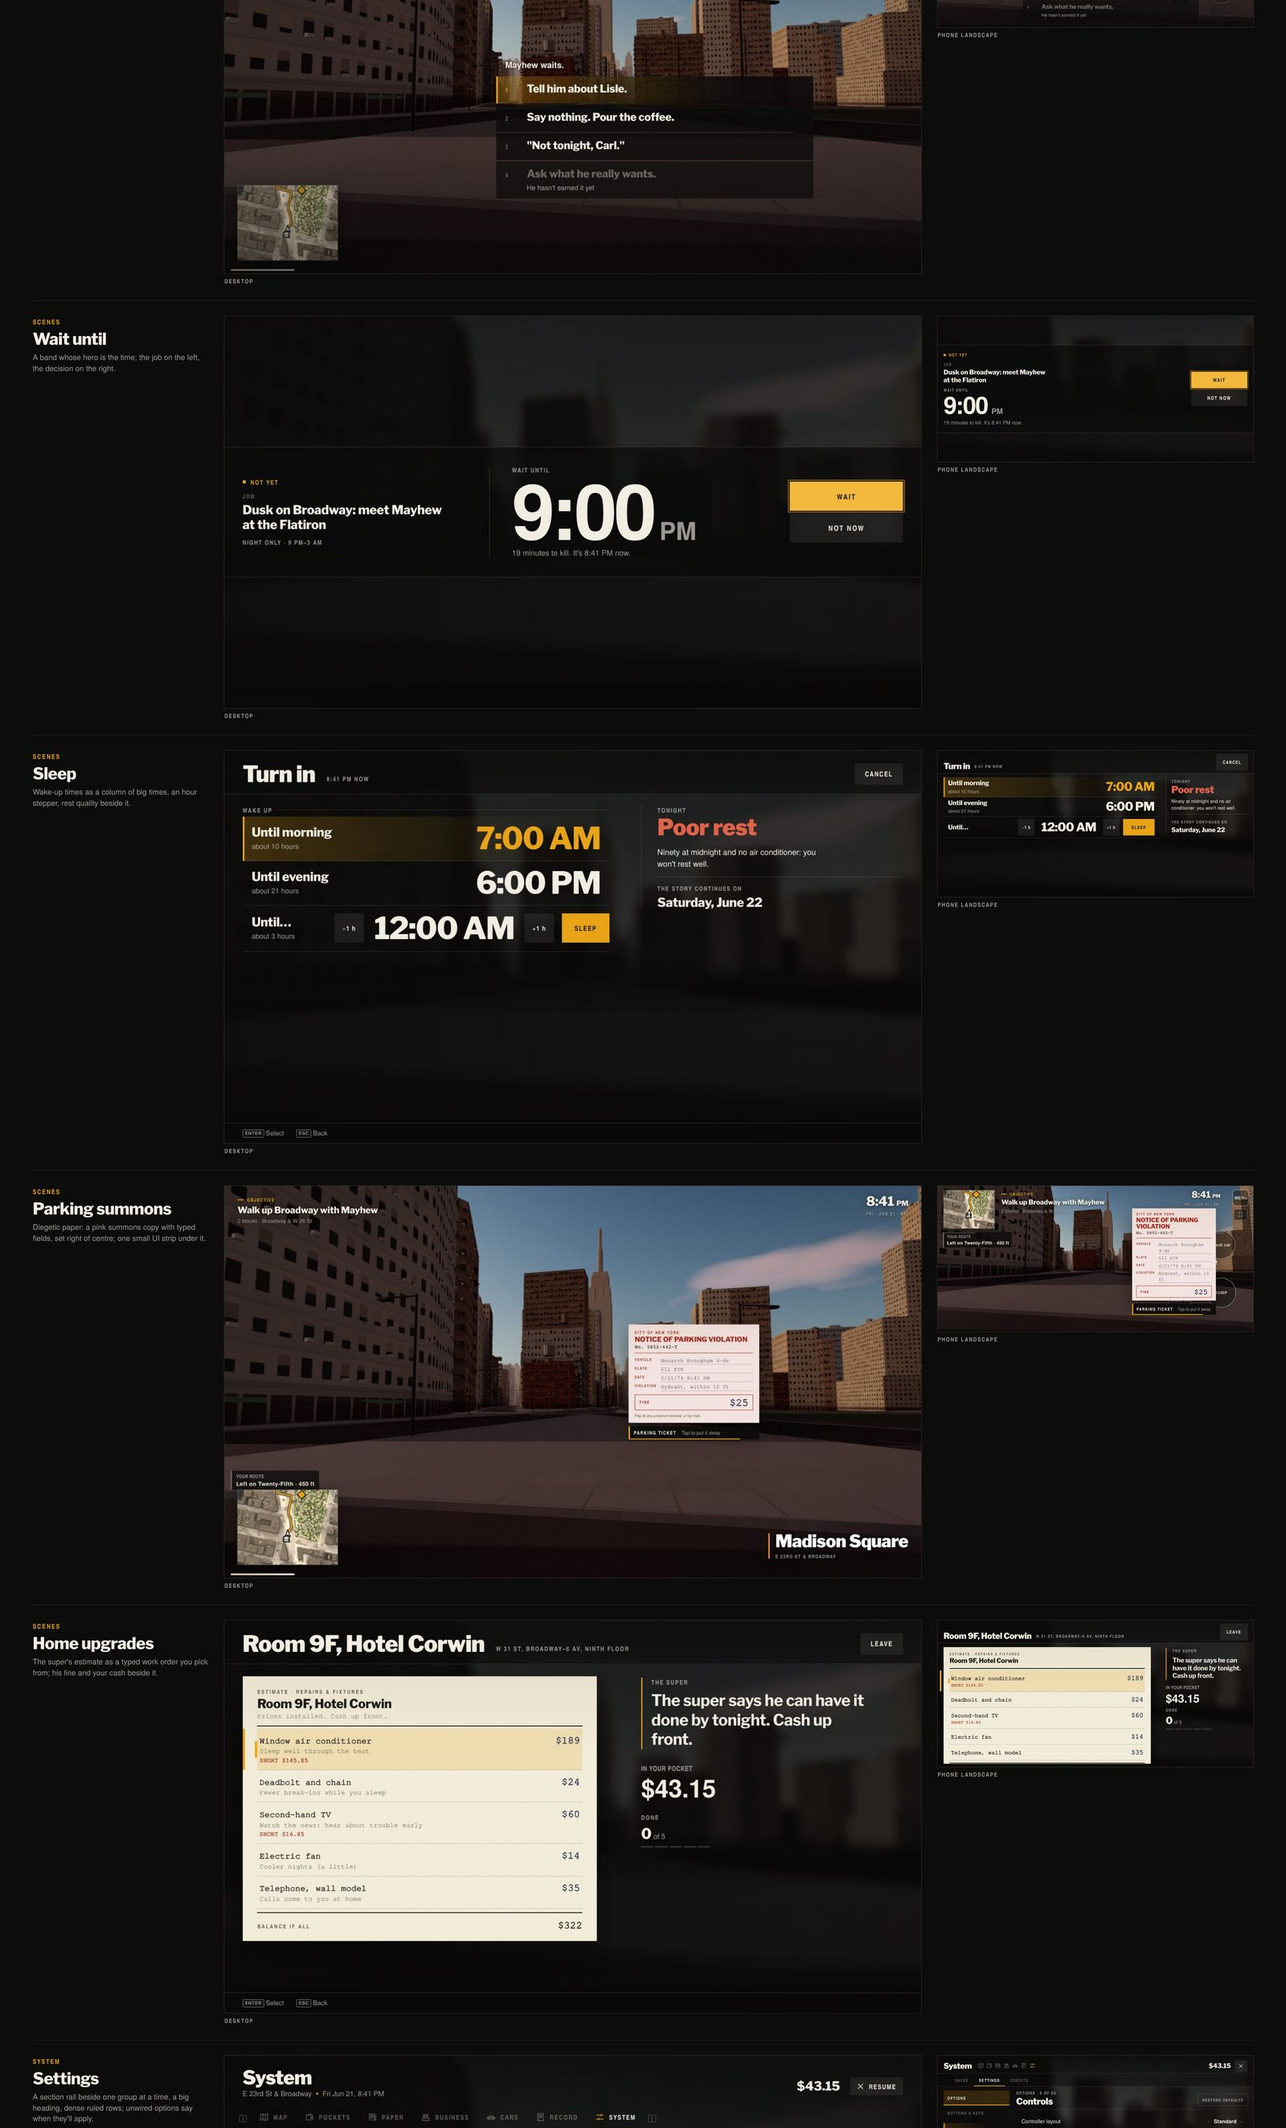
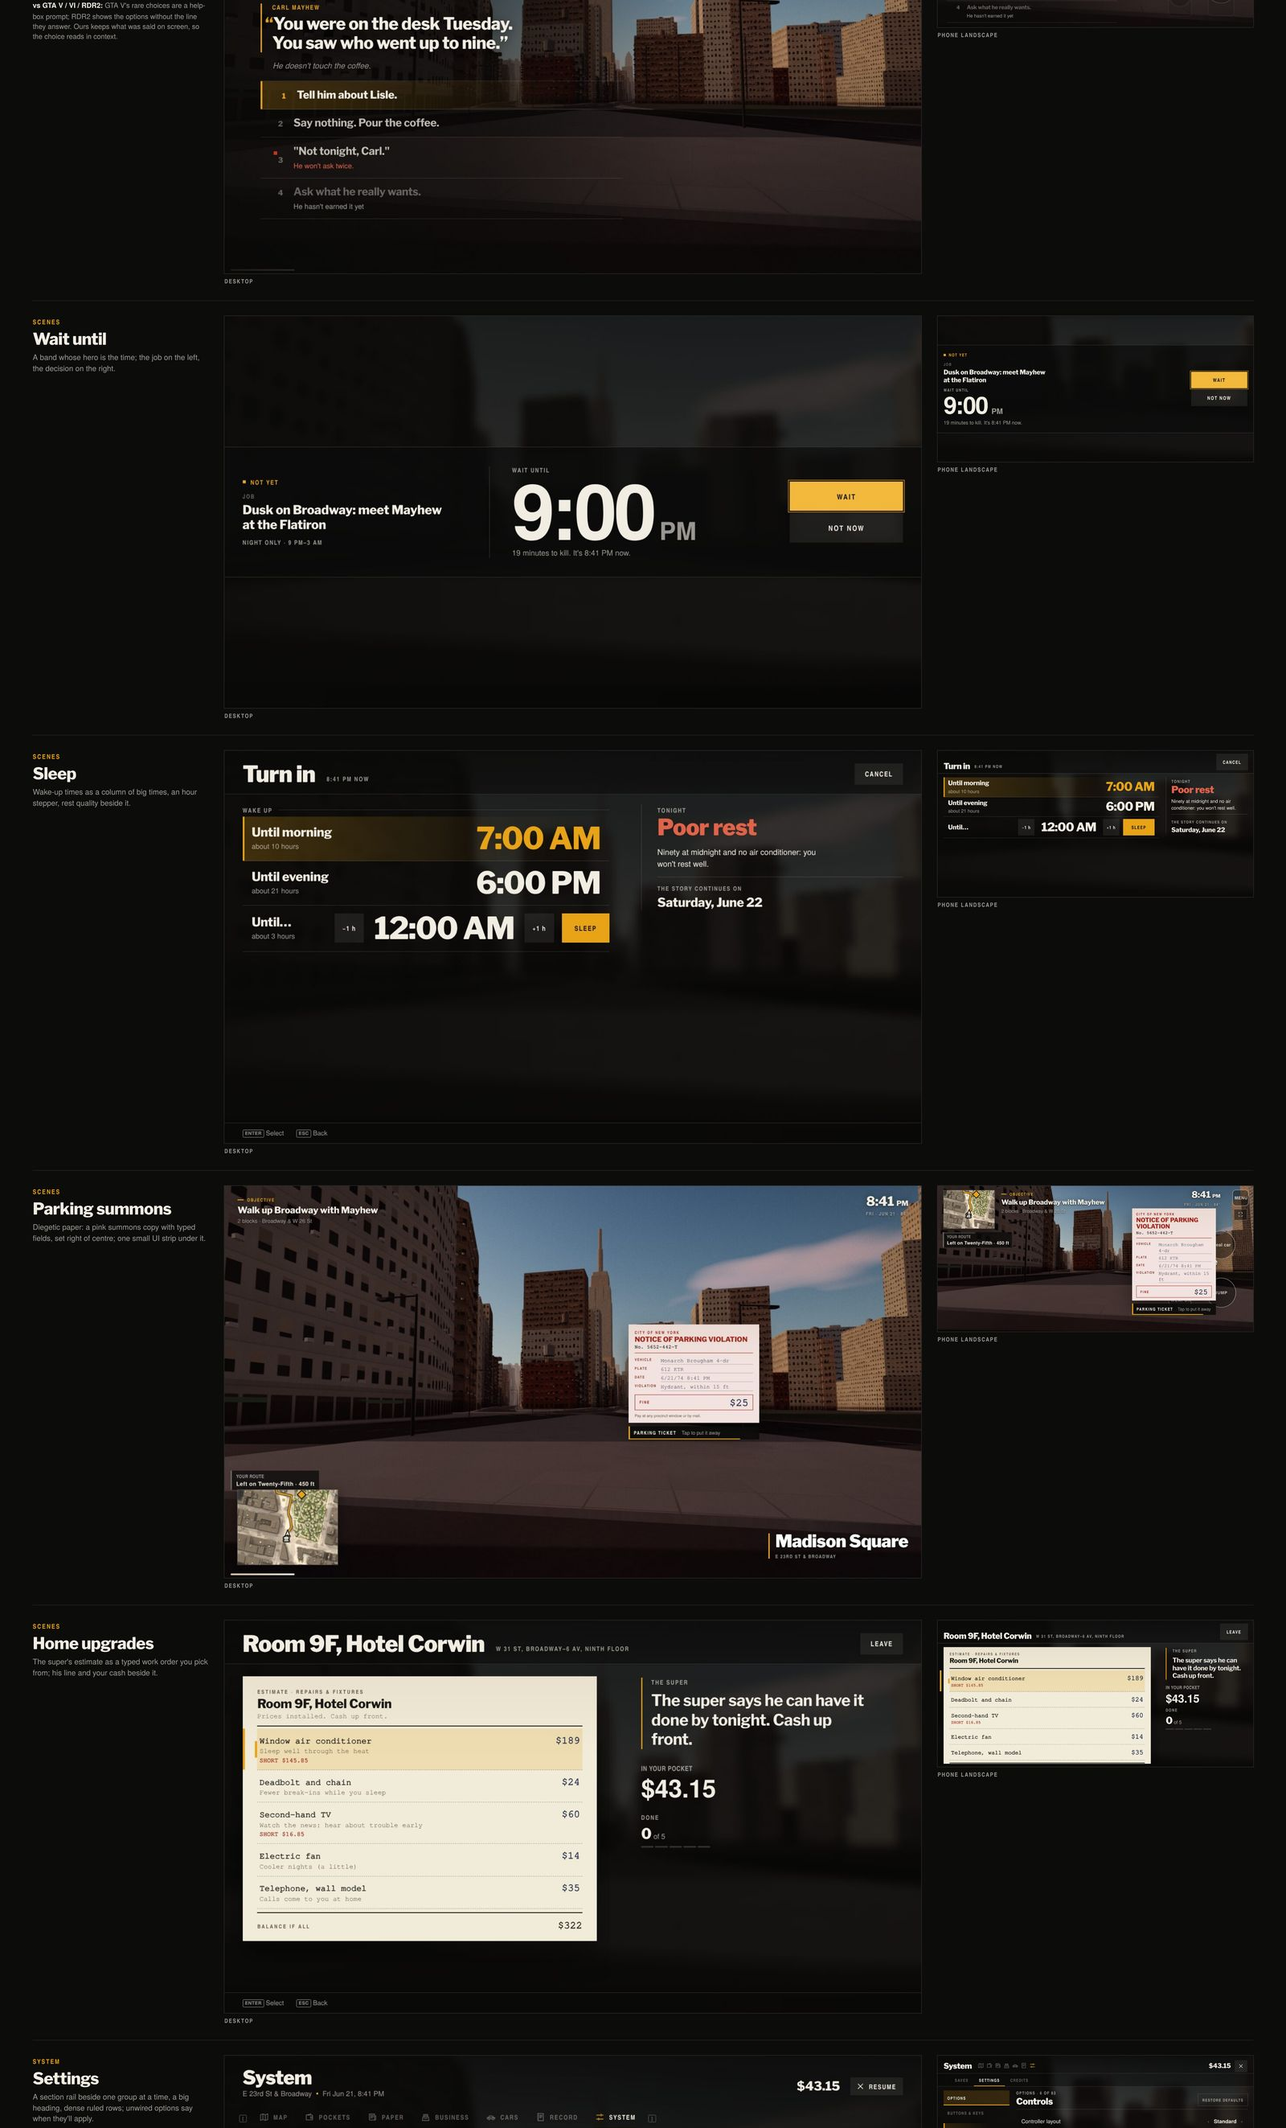
UI: dialogue choices redesigned around the line just spoken; weighty choices take a second press
The choices event gains speaker, line and seconds; DialogueChoice gains confirm (content's
confirm field). Options are type on a left scrim, the minimap steps out while talking.

Claude-Session: https://claude.ai/code/session_01H4ZSJ9Htu5DPCDMJHKesiQ

Changed region(s): [[0.0312, 0.0, 0.6562, 0.124]]

diff --git a/src/ui/a-screens.css b/src/ui/a-screens.css
@@ -395,20 +395,39 @@ body .u-weapons .ws-opt.is-focus .lb { background: var(--focus-surf); box-shadow
 body.touch .u-weapons .ws-opt { width: 0; min-height: 0; } body.touch .u-weapons .ws-opt .lb { min-height: 44px; }
 
 /* ================================================================== DIALOGUE CHOICES: a short list, left of centre, over the live scene */
-.u-choices { justify-content: flex-end; align-items: stretch; padding: 0; background: linear-gradient(180deg, transparent 55%, rgba(10,10,9,.55)); }
-.u-choices .ch-wrap { align-self: flex-start; margin: 0 0 calc(132px + var(--safe-b)) calc(30vw + var(--safe-l)); width: min(560px, 60vw); }
-.u-choices .ch-prompt { margin: 0 0 10px; padding-left: 16px; font: 700 15px var(--f-ui); color: var(--cream); text-shadow: 0 1px 3px #000; }
-.u-choices .ch-list { display: grid; grid-template-columns: 1fr; gap: 2px; width: auto; }
-.u-choices .ch-btn { all: unset; box-sizing: border-box; cursor: pointer; display: grid; grid-template-columns: 28px 1fr; align-items: baseline; gap: 10px; min-height: 48px; padding: 11px 18px 12px 16px;
-  background: var(--panel); border: 0; color: var(--cream); }
-.u-choices .ch-btn .k { width: auto; height: auto; border: 0; font: 700 11px var(--f-cond); letter-spacing: .12em; color: var(--faint); display: block; }
-.u-choices .ch-btn .t { font: 800 19px/1.2 var(--f-voice); letter-spacing: -.01em; }
-.u-choices .ch-btn small { display: block; margin-top: 3px; font: 400 12px var(--f-ui); color: var(--dim); letter-spacing: 0; }
-.u-choices .ch-btn:hover, body .u-choices .ch-btn.is-focus { background: linear-gradient(90deg, rgba(232,163,23,.3), rgba(12,12,11,.9) 70%); box-shadow: inset 3px 0 0 var(--taxi); border: 0; }
-.u-choices .ch-btn.is-focus .k { color: var(--taxi); border: 0; }
-.u-choices .ch-btn[aria-disabled="true"] { opacity: 1; background: var(--band); } .u-choices .ch-btn[aria-disabled="true"] .t { color: var(--faint); }
-.u-choices .ch-fuse { width: auto; height: 2px; margin-top: 6px; background: var(--hair); } .u-choices .ch-fuse i { background: var(--taxi); }
-@media (max-height: 480px) { .u-choices .ch-wrap { margin: 0 0 calc(16px + var(--safe-b)) calc(27vw + var(--safe-l)); width: min(470px, 56vw); } .u-choices .ch-btn { min-height: 44px; padding: 8px 14px 9px 12px; } .u-choices .ch-btn .t { font-size: 16px; } }
+/* Dialogue choices (DESIGN_A): the line just spoken is the hero; options are type on a left scrim, not plates */
+.u-choices { justify-content: flex-end; align-items: stretch; padding: 0; background: linear-gradient(90deg, rgba(10,10,9,.82) 0, rgba(10,10,9,.6) 38%, transparent 68%), linear-gradient(180deg, transparent 45%, rgba(10,10,9,.5)); }
+.u-choices .ch-wrap { align-self: flex-start; margin: 0 0 calc(96px + var(--safe-b)) calc(64px + var(--safe-l)); width: min(640px, 52vw); }
+.u-choices .ch-said { margin: 0 0 6px; padding: 0 0 0 18px; border-left: 3px solid var(--taxi); }
+.u-choices .ch-said .a-label { display: block; color: var(--taxi); margin-bottom: 6px; }
+.u-choices .ch-said p { margin: 0; font: 800 30px/1.12 var(--f-voice); letter-spacing: -.02em; color: var(--cream); text-wrap: balance; text-shadow: 0 2px 12px rgba(0,0,0,.5); }
+.u-choices .ch-said p::before { content: '\201C'; color: var(--taxi); margin-left: -.42em; }
+.u-choices .ch-said p::after { content: '\201D'; }
+.u-choices .ch-prompt { margin: 12px 0 18px 21px; font: italic 400 14px var(--f-ui); color: var(--dim); text-shadow: 0 1px 3px #000; }
+.u-choices .ch-said + .ch-list, .u-choices .ch-said ~ .ch-list { margin-top: 0; }
+.u-choices .ch-list { display: grid; grid-template-columns: 1fr; gap: 0; width: auto; border-top: 1px solid var(--hair); }
+.u-choices .ch-btn { all: unset; box-sizing: border-box; cursor: pointer; display: grid; grid-template-columns: 34px 1fr; align-items: baseline; gap: 6px; min-height: 48px; padding: 12px 18px 13px 18px; border-bottom: 1px solid var(--hair); background: none; transition: background .12s, padding .18s cubic-bezier(.2,.7,.1,1); }
+.u-choices .ch-btn .k { font: 800 13px var(--f-voice); color: var(--faint); font-variant-numeric: tabular-nums; }
+.u-choices .ch-btn .t { font: 700 19px/1.25 var(--f-voice); letter-spacing: -.01em; color: rgba(242,237,227,.78); }
+.u-choices .ch-btn small { display: block; margin-top: 4px; font: 400 12.5px var(--f-ui); color: var(--dim); letter-spacing: 0; }
+.u-choices .ch-btn:hover, body .u-choices .ch-btn.is-focus { background: linear-gradient(90deg, rgba(232,163,23,.22), rgba(232,163,23,0) 85%); box-shadow: inset 3px 0 0 var(--taxi); padding-left: 24px; }
+.u-choices .ch-btn:hover .t, body .u-choices .ch-btn.is-focus .t { color: var(--cream); font-weight: 800; }
+.u-choices .ch-btn.is-focus .k { color: var(--taxi); }
+/* weighty: a red tick before the number; armed (first press) shows the consequence in red and asks for the second */
+.u-choices .ch-btn .k { position: relative; }
+.u-choices .ch-btn.weighty .k::before { content: ""; position: absolute; left: -13px; top: 50%; width: 6px; height: 6px; margin-top: -3px; background: var(--red); }
+.u-choices .ch-btn .cf em { font-style: normal; color: #e0634a; }
+.u-choices .ch-btn .cf span { display: none; font: 700 10.5px var(--f-cond); letter-spacing: .14em; text-transform: uppercase; color: var(--cream); margin-left: 8px; }
+.u-choices .ch-btn.armed { background: linear-gradient(90deg, rgba(200,54,31,.32), rgba(200,54,31,0) 85%) !important; box-shadow: inset 3px 0 0 var(--red) !important; }
+.u-choices .ch-btn.armed .cf span { display: inline; }
+.u-choices .ch-btn[aria-disabled="true"] { cursor: default; } .u-choices .ch-btn[aria-disabled="true"] .t { color: var(--faint); font-weight: 700; }
+.u-choices .ch-fuse { width: auto; height: 2px; margin-top: 10px; background: var(--hair); } .u-choices .ch-fuse i { display: block; height: 100%; background: var(--taxi); }
+@media (max-height: 480px) {
+  .u-choices .ch-wrap { margin: 0 0 calc(12px + var(--safe-b)) calc(24px + var(--safe-l)); width: min(520px, 58vw); }
+  .u-choices .ch-said p { font-size: 20px; } .u-choices .ch-said .a-label { margin-bottom: 3px; }
+  .u-choices .ch-prompt { margin: 6px 0 8px 21px; font-size: 12px; }
+  .u-choices .ch-btn { min-height: 44px; padding: 8px 14px 9px 14px; } .u-choices .ch-btn .t { font-size: 15.5px; }
+}
 body.touch .u-choices { padding-bottom: 0; } body.touch .u-choices .ch-list { width: auto; }
 
 /* ================================================================== WAIT: a band across the held frame; the hour is the hero */
@@ -645,3 +664,7 @@ body .cr-a .cr-roll a.is-focus { background: none; box-shadow: inset 0 -2px 0 va
 /* real car renders (vehicles' renderThumbnail) replace the drawn profile in place, same footprint */
 .car-art { display: block; }
 .car-art .car-render { display: block; width: 100%; height: auto; aspect-ratio: 640 / 280; object-fit: contain; filter: drop-shadow(0 10px 14px rgba(0,0,0,.45)); }
+/* while choosing, the conversation owns the left side: minimap and route step out; numbers are bare, not keycaps */
+body:has(.u-choices.modal-open) .t74-minimap, body:has(.u-choices.modal-open) .u-hud .u-turn { opacity: 0 !important; transition: opacity .15s; pointer-events: none; }
+.u-choices .ch-btn .k { border: 0 !important; width: auto !important; height: auto !important; box-shadow: none !important; background: none !important; padding: 0 !important; }
+@media (max-height: 480px) { .u-choices .ch-said p { font-size: 18px; font-weight: 800; } .u-choices .ch-btn .t { font-size: 14.5px; } .u-choices .ch-wrap { width: min(480px, 54vw); } }

diff --git a/src/ui/screens/Overlays.ts b/src/ui/screens/Overlays.ts
@@ -130,28 +130,50 @@ export class WeaponSelect extends Modal {
 export class Choices extends Modal {
   private resolve: ((id: string) => void) | null = null;
   private timer = 0; private total = 0; private defaultId = '';
+  private armed = ''; // a weighty choice waiting for its second press
   constructor(input: Input) { super(input, 'u-choices'); }
-  ask(choices: DialogueChoice[], resolve: (id: string) => void, opts: { prompt?: string; seconds?: number; defaultId?: string } = {}) {
+  /**
+   * DESIGN_A dialogue choices: the line just spoken is the hero (speaker in amber caps, the line in Franklin), the
+   * options sit under it as type on a scrim, numbered. Weighty choices (content `confirm`) carry a red mark and take a
+   * second press, showing their consequence line in between.
+   */
+  ask(choices: DialogueChoice[], resolve: (id: string) => void, opts: { prompt?: string; speaker?: string; line?: string; seconds?: number; defaultId?: string } = {}) {
     if (choices.length > 4) console.warn('More than four choices (narrative rule): truncating');
     const cs = choices.slice(0, 4);
-    this.resolve = resolve; this.total = this.timer = opts.seconds && !settings.get('skipTimers') ? Math.max(6, opts.seconds) : 0; this.defaultId = opts.defaultId ?? cs[cs.length - 1].id;
+    this.resolve = resolve; this.armed = '';
+    this.total = this.timer = opts.seconds && !settings.get('skipTimers') ? Math.max(6, opts.seconds) : 0;
+    this.defaultId = opts.defaultId ?? cs[cs.length - 1].id;
     this.show();
-    this.root.innerHTML = `<div class="ch-wrap">${opts.prompt ? `<div class="ch-prompt">${esc(opts.prompt)}</div>` : ''}<div class="ch-list"></div>${this.total ? '<div class="ch-fuse"><i></i></div>' : ''}</div>`;
+    const said = opts.line ? `<blockquote class="ch-said">${opts.speaker ? `<span class="a-label">${esc(opts.speaker)}</span>` : ''}<p class="a-voice">${esc(opts.line)}</p></blockquote>` : '';
+    this.root.innerHTML = `<div class="ch-wrap">${said}${opts.prompt ? `<div class="ch-prompt">${esc(opts.prompt)}</div>` : ''}<div class="ch-list"></div>${this.total ? '<div class="ch-fuse"><i></i></div>' : ''}</div>`;
     const list = this.root.querySelector('.ch-list')!, items: NavItem[] = [];
+    const choose = (c: DialogueChoice, b: HTMLElement) => {
+      if (c.disabled) return;
+      if (c.confirm && this.armed !== c.id) {
+        this.armed = c.id;
+        list.querySelectorAll('.ch-btn.armed').forEach((x) => x.classList.remove('armed'));
+        b.classList.add('armed');
+        return;
+      }
+      this.pick(c.id);
+    };
     cs.forEach((c, i) => {
-      const b = document.createElement('button'); b.className = 'ch-btn';
-      b.innerHTML = `<span class="k">${i + 1}</span><span class="t">${esc(c.text.length > 44 ? `${c.text.slice(0, 43)}…` : c.text)}${c.disabled ? `<small>${esc(c.disabled)}</small>` : ''}</span>`;
+      const b = document.createElement('button'); b.className = `ch-btn${c.confirm ? ' weighty' : ''}`;
+      const sub = c.disabled ? `<small>${esc(c.disabled)}</small>` : c.confirm ? `<small class="cf"><em>${esc(c.confirm)}</em> <span>Press again to commit</span></small>` : '';
+      b.innerHTML = `<span class="k">${i + 1}</span><span class="t">${esc(c.text.length > 60 ? `${c.text.slice(0, 59)}…` : c.text)}${sub}</span>`;
       if (c.disabled) b.setAttribute('aria-disabled', 'true');
-      list.appendChild(b); items.push({ el: b, activate: () => { if (!c.disabled) this.pick(c.id); } });
+      list.appendChild(b); items.push({ el: b, activate: () => choose(c, b) });
     });
     this.setNav(items);
-    const keys = (e: KeyboardEvent) => { const n = +e.key; if (n >= 1 && n <= cs.length && this.open && !cs[n - 1].disabled) this.pick(cs[n - 1].id); };
+    const keys = (e: KeyboardEvent) => { const n = +e.key; if (n >= 1 && n <= cs.length && this.open) { this.nav.focus(n - 1); choose(cs[n - 1], items[n - 1].el); } };
     window.addEventListener('keydown', keys); this.onClose = () => window.removeEventListener('keydown', keys);
   }
   private pick(id: string) { const r = this.resolve; this.resolve = null; this.hide(); r?.(id); }
   update(dt: number) {
     if (!this.open) return;
     if (this.total) { this.timer -= dt; (this.root.querySelector('.ch-fuse i') as HTMLElement).style.width = `${Math.max(0, this.timer / this.total) * 100}%`; if (this.timer <= 0) { this.pick(this.defaultId); return; } }
+    const before = this.nav.index;
     this.nav.update(dt); // back does nothing: a choice must be made (untimed ones wait forever)
+    if (this.nav.index !== before && this.armed) { this.armed = ''; this.root.querySelectorAll('.ch-btn.armed').forEach((x) => x.classList.remove('armed')); }
   }
 }

diff --git a/src/ui/index.ts b/src/ui/index.ts
@@ -114,7 +114,7 @@ export function createUi(host: UiHost, o: UiOptions): UiRoot {
   const carLot = new CarLot(input, host); carLot.onToast = toast;
   const home = new HomeUpgrades(input, host);
   const modals: Modal[] = [shop, leads, weapons, choices, waitPrompt, sleep, carLot, home];
-  host.on('choices', (e) => choices.ask(e.choices, e.resolve, { prompt: e.prompt }));
+  host.on('choices', (e) => choices.ask(e.choices, e.resolve, { prompt: e.prompt, speaker: e.speaker, line: e.line, seconds: e.seconds }));
   host.on('waitPrompt', (e) => waitPrompt.ask(e, e.resolve));
   new NoticeCard(host);
   const extras = { newsRead: new Set<string>(), achievements: {} as Record<string, string>, cutscenesSeen: new Set<string>() };
@@ -129,8 +129,8 @@ export function createUi(host: UiHost, o: UiOptions): UiRoot {
     ['home', () => home.openHome()],
     ['choices', () => choices.ask([
       { id: 'a', text: 'Tell him about Lisle.' }, { id: 'b', text: 'Say nothing. Pour the coffee.' },
-      { id: 'c', text: '"Not tonight, Carl."' }, { id: 'd', text: 'Ask what he really wants.', disabled: 'He hasn\'t earned it yet' },
-    ], () => {}, { prompt: 'Mayhew waits.' })],
+      { id: 'c', text: '"Not tonight, Carl."', confirm: 'He won\'t ask twice.' }, { id: 'd', text: 'Ask what he really wants.', disabled: 'He hasn\'t earned it yet' },
+    ], () => {}, { speaker: 'Carl Mayhew', line: 'You were on the desk Tuesday. You saw who went up to nine.', prompt: 'He doesn\'t touch the coffee.' })],
   ]);
 
   let title: TitleScreen | null = null;

diff --git a/src/shared/uiEvents.ts b/src/shared/uiEvents.ts
@@ -22,7 +22,8 @@ export interface UiEvents {
   waitPrompt: { mission: string; title: string; windowStart: string; windowEnd: string; resolve: (accept: boolean) => void };
   /** A parking summons, a tow or a boot happened to one of the lead's cars. */
   notice: { kind: 'ticket' | 'tow' | 'boot'; car: string; text: string; amount?: number };
-  choices: { prompt?: string; choices: DialogueChoice[]; resolve: (id: string) => void };
+  /** speaker/line: who just spoke and what they said (the hero of the choice screen); prompt: a stage direction ("Mayhew waits."). */
+  choices: { prompt?: string; speaker?: string; line?: string; seconds?: number; choices: DialogueChoice[]; resolve: (id: string) => void };
   /** A mission ended: the end card (src/ui/hud/MissionCard.ts). `cash` = the player's cut; `lines` = extra label/value rows. */
   missionEnd: { result: 'passed' | 'failed'; title: string; reason?: string; cash?: number; lines?: { label: string; value: string }[] };
 }

diff --git a/src/shared/uiHost.ts b/src/shared/uiHost.ts
@@ -105,7 +105,8 @@ export interface StatRow { group: string; label: string; value: string }
 export interface CompletionRow { group: string; label: string; done: number; total: number }
 export interface Achievement { id: string; name: string; text: string; unlocked?: string; hidden?: boolean }
 
-export interface DialogueChoice { id: string; text: string; disabled?: string }
+/** confirm: a weighty choice (content's `confirm`, e.g. "This choice can't be undone."); the UI marks it and asks for a second press. */
+export interface DialogueChoice { id: string; text: string; disabled?: string; confirm?: string }
 
 export interface CameraHost {
   /** Matches src/camera/CameraDirector (shipped): take the real camera; gameplay cameras keep updating a proxy. */

diff --git a/tools/ui/board/rows.py b/tools/ui/board/rows.py
@@ -27,7 +27,8 @@ ROWS = [
   ('shop_fence', 'Scenes', 'The fence', 'Dense rows (carry slot, illegal tag, price, what you\'re short); the keeper\'s line and your cash beside them.', ''),
   ('leads', 'Scenes', 'Switch to…', 'No fake portraits: three strips with each lead\'s colour, name, where they are and their cash; the chosen one widens.', 'GTA V\'s switch wheel uses portraits; ours waits for character renders and lets the type carry it.'),
   ('weapons', 'Scenes', 'Weapon selector', 'A hairline ellipse over the live street, square nodes, concealment as coloured marks. The HUD steps back while it\'s open.', ''),
-  ('choices', 'Scenes', 'Dialogue choices', 'One left-of-centre list with number keys, lines set in Franklin; untimed unless the scene says so.', ''),
+  ('choices', 'Scenes', 'Dialogue choices', 'The line just spoken is the hero: the speaker in amber caps, the line in Franklin, a stage direction under it. Options are type on a left scrim with number keys, not plates. A weighty choice carries a red mark and its consequence line, and takes a second press. The minimap steps out while you talk.',
+   'GTA V\'s rare choices are a help-box prompt; RDR2 shows the options without the line they answer. Ours keeps what was said on screen, so the choice reads in context.'),
   ('wait', 'Scenes', 'Wait until', 'A band whose hero is the time; the job on the left, the decision on the right.', ''),
   ('sleep', 'Scenes', 'Sleep', 'Wake-up times as a column of big times, an hour stepper, rest quality beside it.', ''),
   ('notice', 'Scenes', 'Parking summons', 'Diegetic paper: a pink summons copy with typed fields, set right of centre; one small UI strip under it.', ''),
